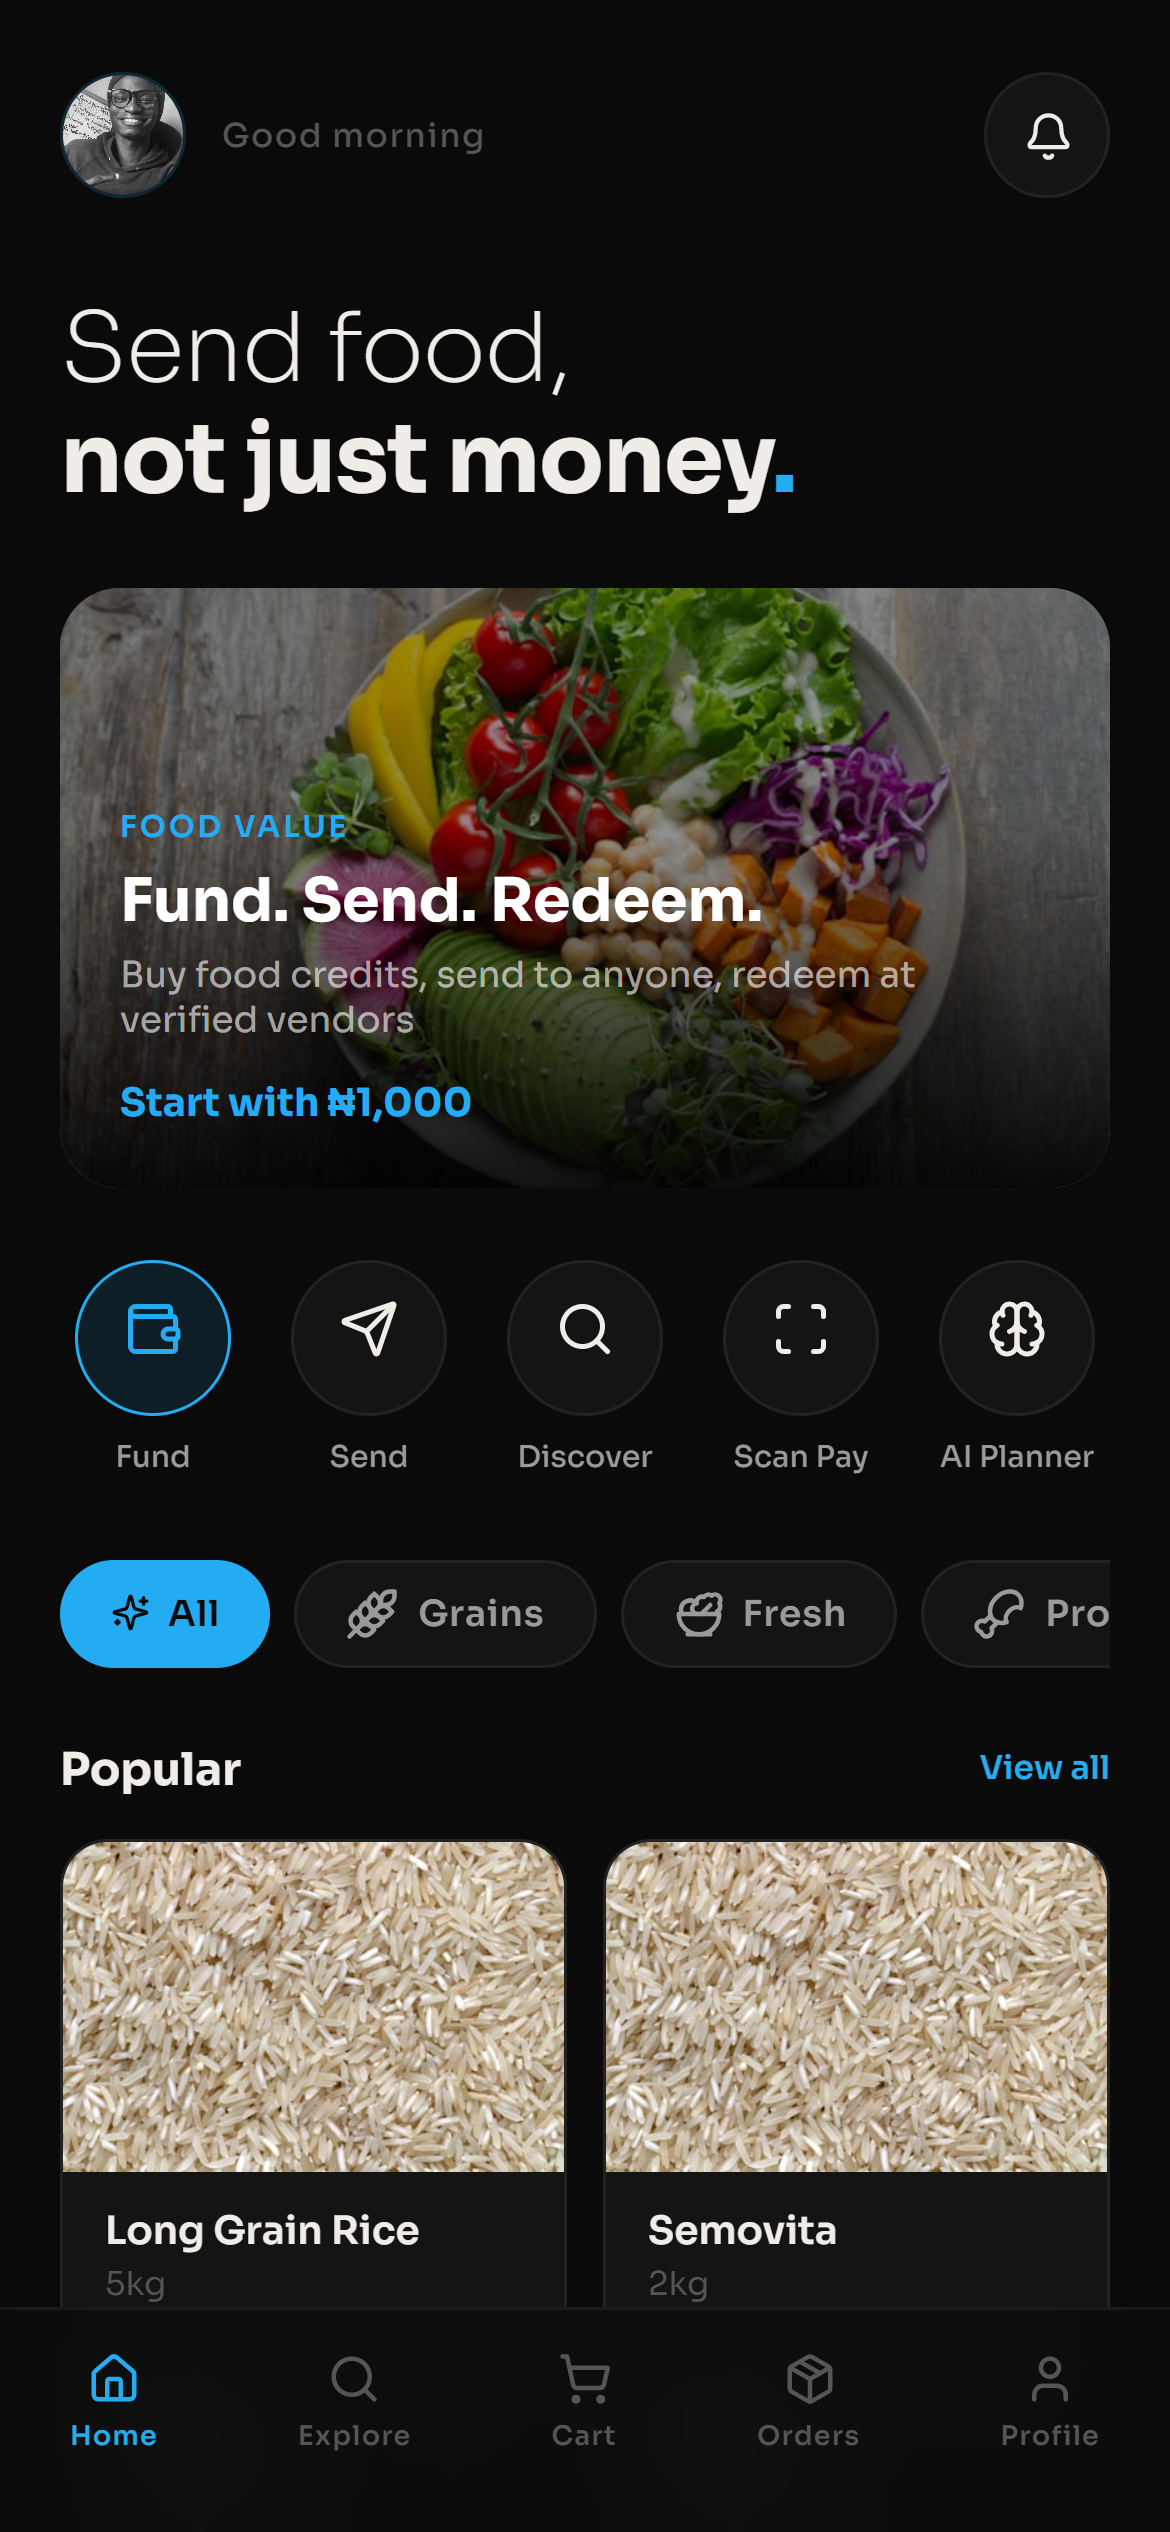
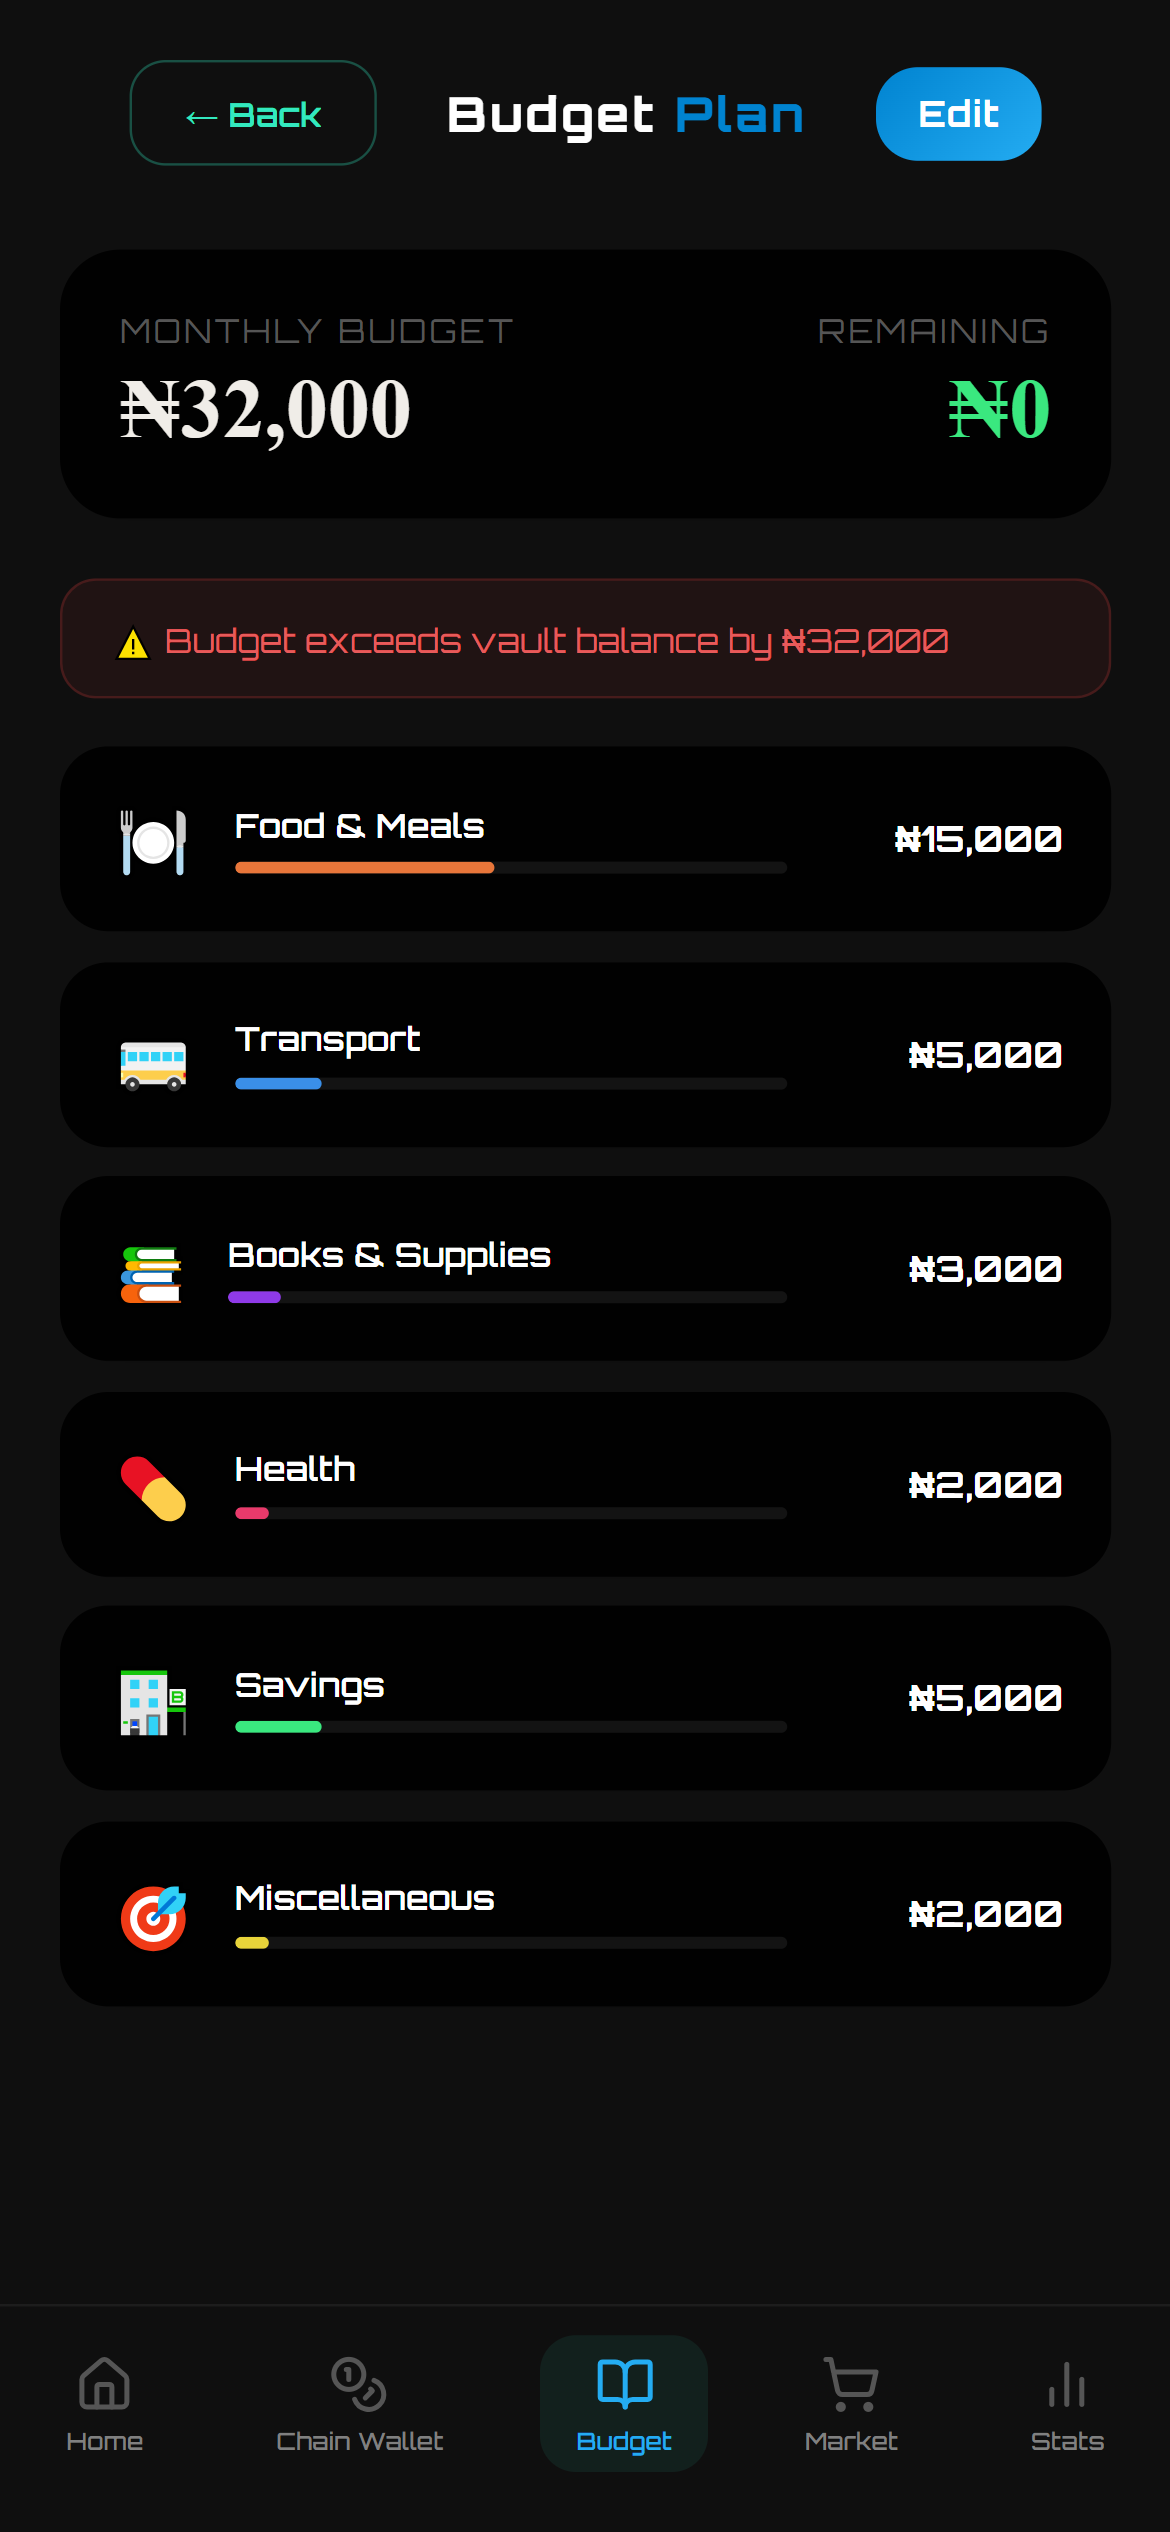
Build custom iPhone 16 Pro frame with titanium bezels, Dynamic Island, and raw HD screenshot

diff --git a/src/components/Hero.tsx b/src/components/Hero.tsx
@@ -49,13 +49,45 @@ const Hero = () => {
             </div>
           </div>
 
-          {/* Right: App UI */}
+          {/* Right: iPhone mockup */}
           <div className="flex justify-center lg:justify-end">
-            <img
-              src="/nextplate.png"
-              alt="Nekstpei App"
-              className="w-full max-w-[480px]"
-            />
+            <div className="relative">
+              {/* Ambient glow */}
+              <div className="absolute -inset-10 bg-[rgb(0,131,208)]/6 rounded-full blur-3xl" />
+
+              {/* Phone */}
+              <div className="relative w-[290px] sm:w-[310px]">
+                {/* Side buttons — natural titanium */}
+                <div className="absolute -left-[3px] top-[92px] w-[3px] h-[26px] bg-gradient-to-r from-[#6b6b6b] to-[#3a3a3a] rounded-l-sm" />
+                <div className="absolute -left-[3px] top-[134px] w-[3px] h-[54px] bg-gradient-to-r from-[#6b6b6b] to-[#3a3a3a] rounded-l-sm" />
+                <div className="absolute -left-[3px] top-[196px] w-[3px] h-[54px] bg-gradient-to-r from-[#6b6b6b] to-[#3a3a3a] rounded-l-sm" />
+                <div className="absolute -right-[3px] top-[160px] w-[3px] h-[80px] bg-gradient-to-l from-[#6b6b6b] to-[#3a3a3a] rounded-r-sm" />
+
+                {/* Titanium outer frame */}
+                <div className="relative rounded-[54px] p-[3.5px] bg-gradient-to-b from-[#8a8a8a] via-[#4a4a4a] to-[#7a7a7a] shadow-[0_30px_80px_rgba(0,0,0,0.75),0_0_0_1px_rgba(255,255,255,0.05)]">
+                  {/* Polished edge highlight */}
+                  <div className="rounded-[52px] p-[1.5px] bg-gradient-to-b from-[#3a3a3a] to-[#1a1a1a]">
+                    {/* Screen */}
+                    <div className="relative rounded-[50px] overflow-hidden bg-black">
+                      {/* Dynamic Island */}
+                      <div className="absolute top-[14px] left-1/2 -translate-x-1/2 w-[104px] h-[32px] bg-black rounded-full z-20 shadow-[inset_0_0_4px_rgba(255,255,255,0.08)] flex items-center justify-end pr-[12px]">
+                        <div className="w-[9px] h-[9px] rounded-full bg-[#0d1117] ring-1 ring-[#1a1f2e]" />
+                      </div>
+
+                      {/* App screenshot */}
+                      <img
+                        src="/nextplate.png"
+                        alt="Nekstpei App"
+                        className="w-full block"
+                      />
+
+                      {/* Glass reflection */}
+                      <div className="absolute inset-0 bg-gradient-to-br from-white/[0.05] via-transparent to-transparent pointer-events-none rounded-[50px]" />
+                    </div>
+                  </div>
+                </div>
+              </div>
+            </div>
           </div>
         </div>
       </div>
